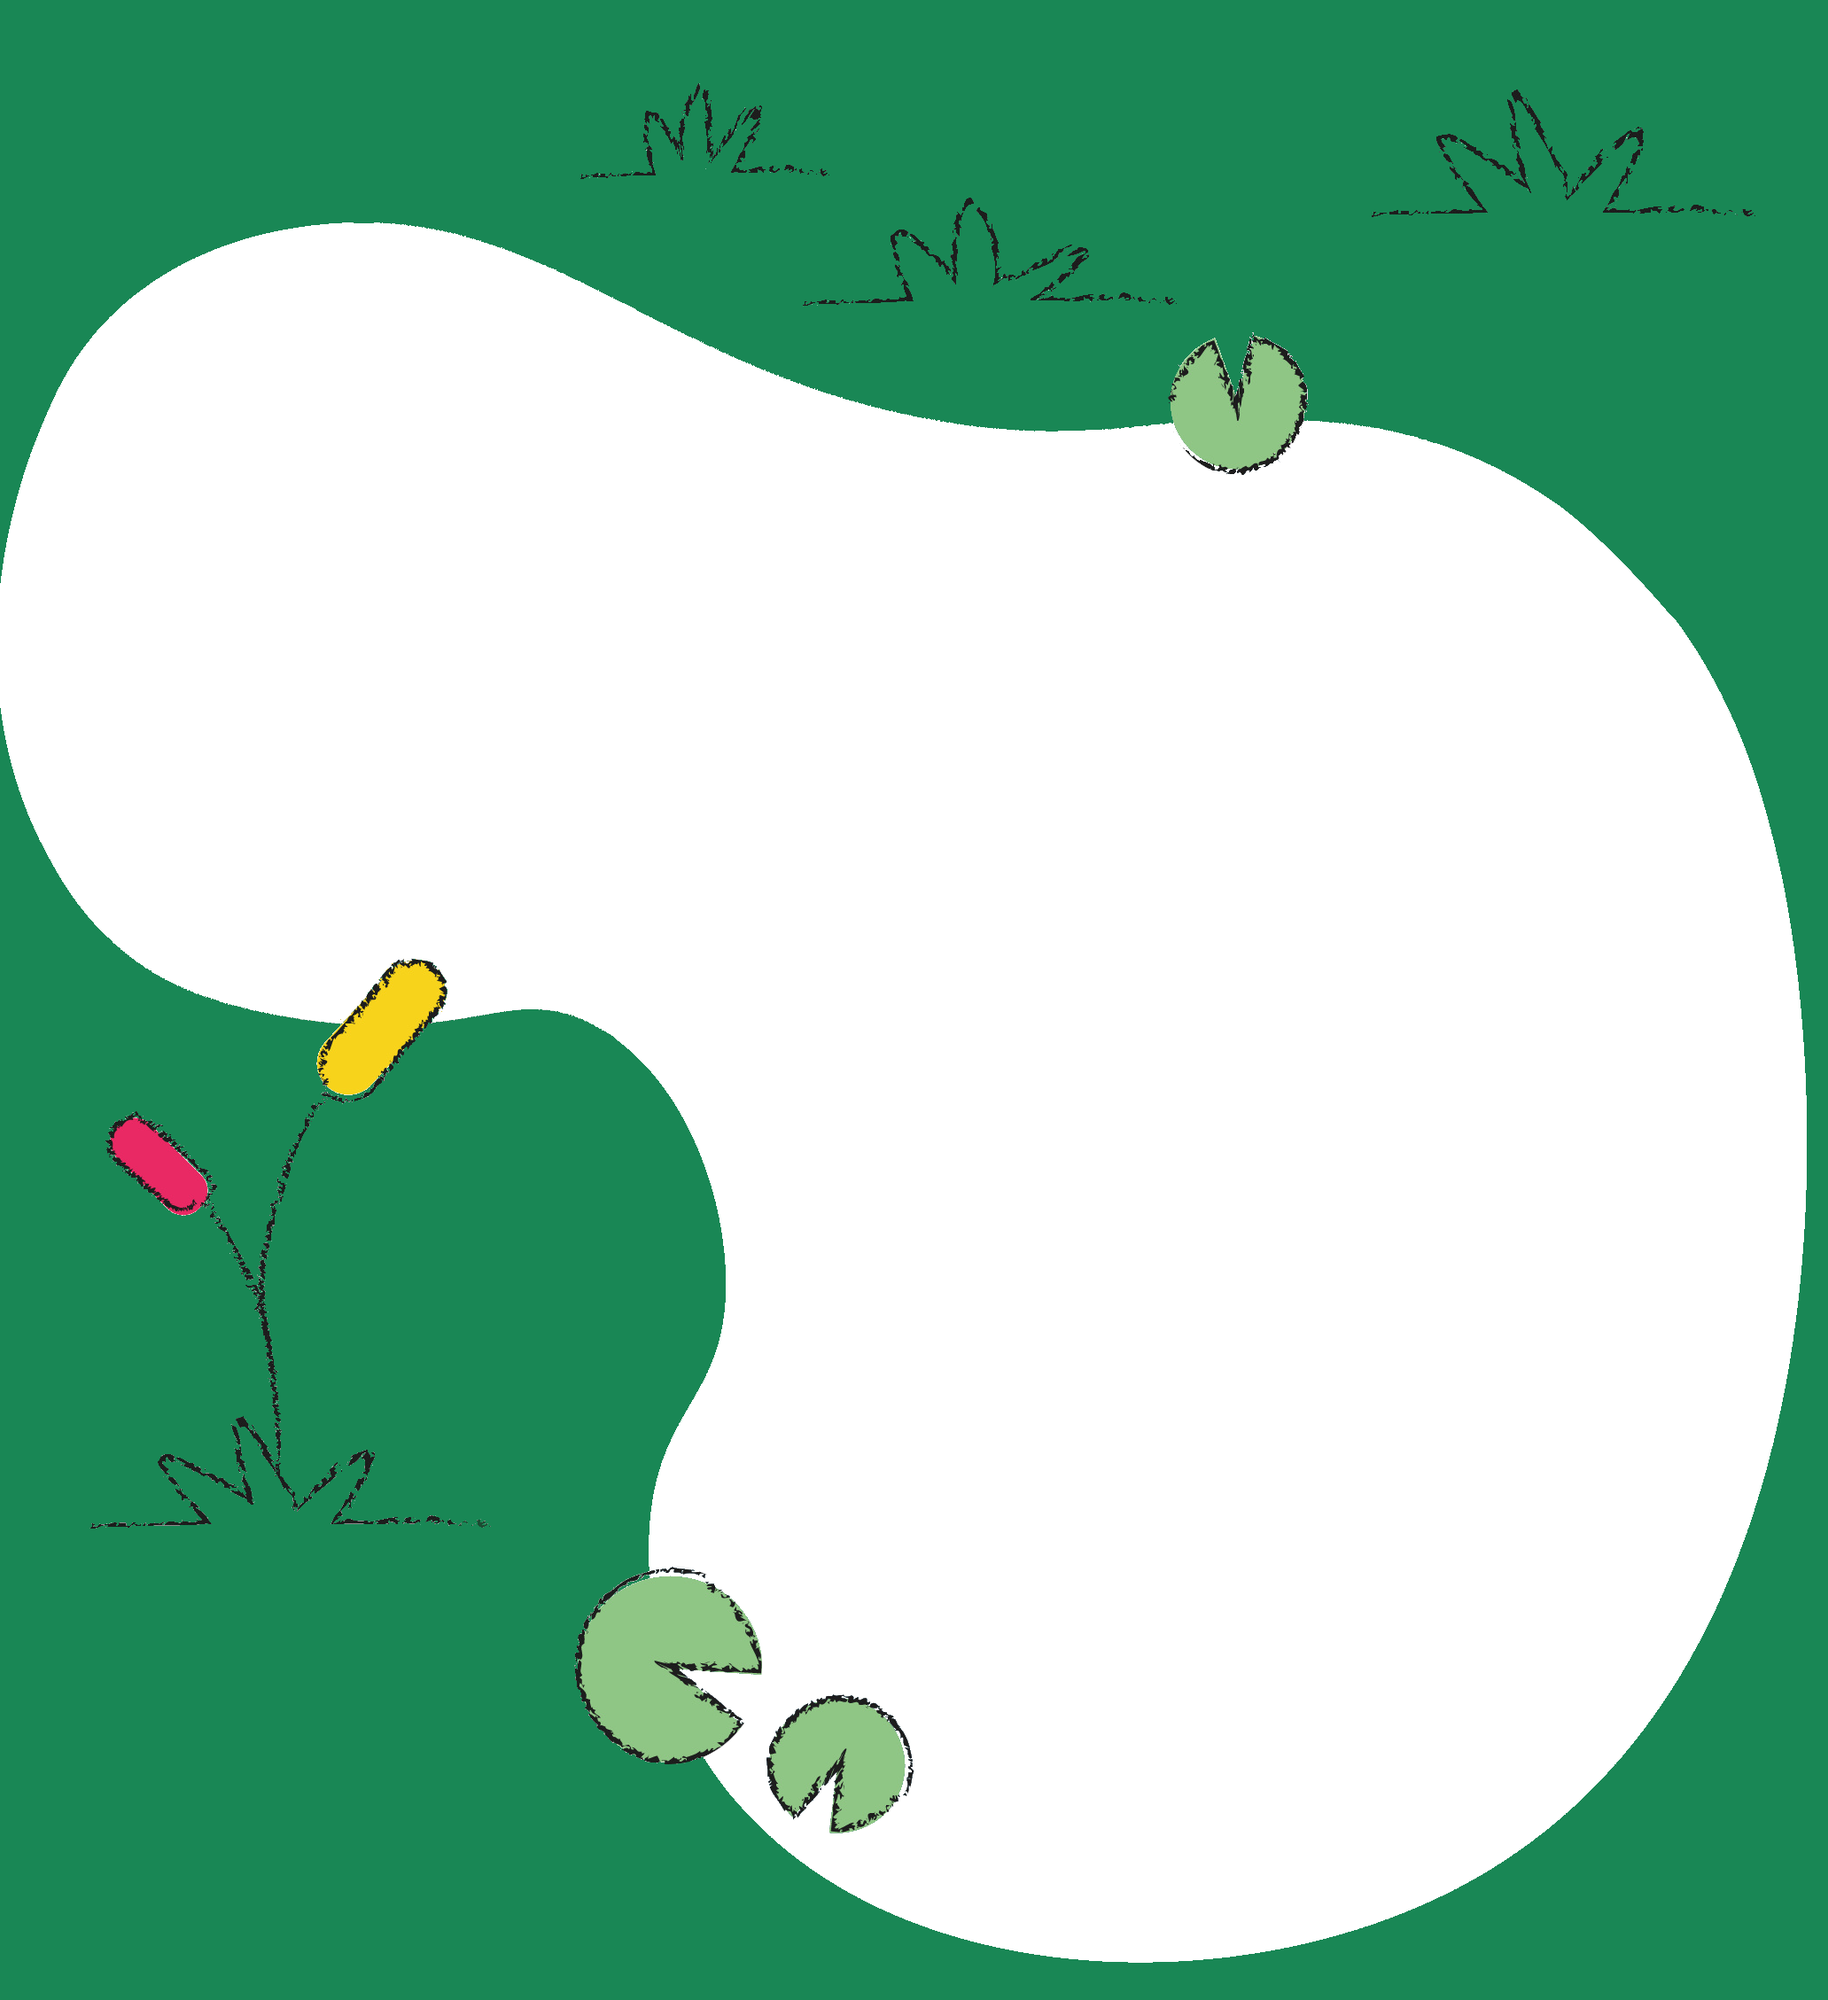
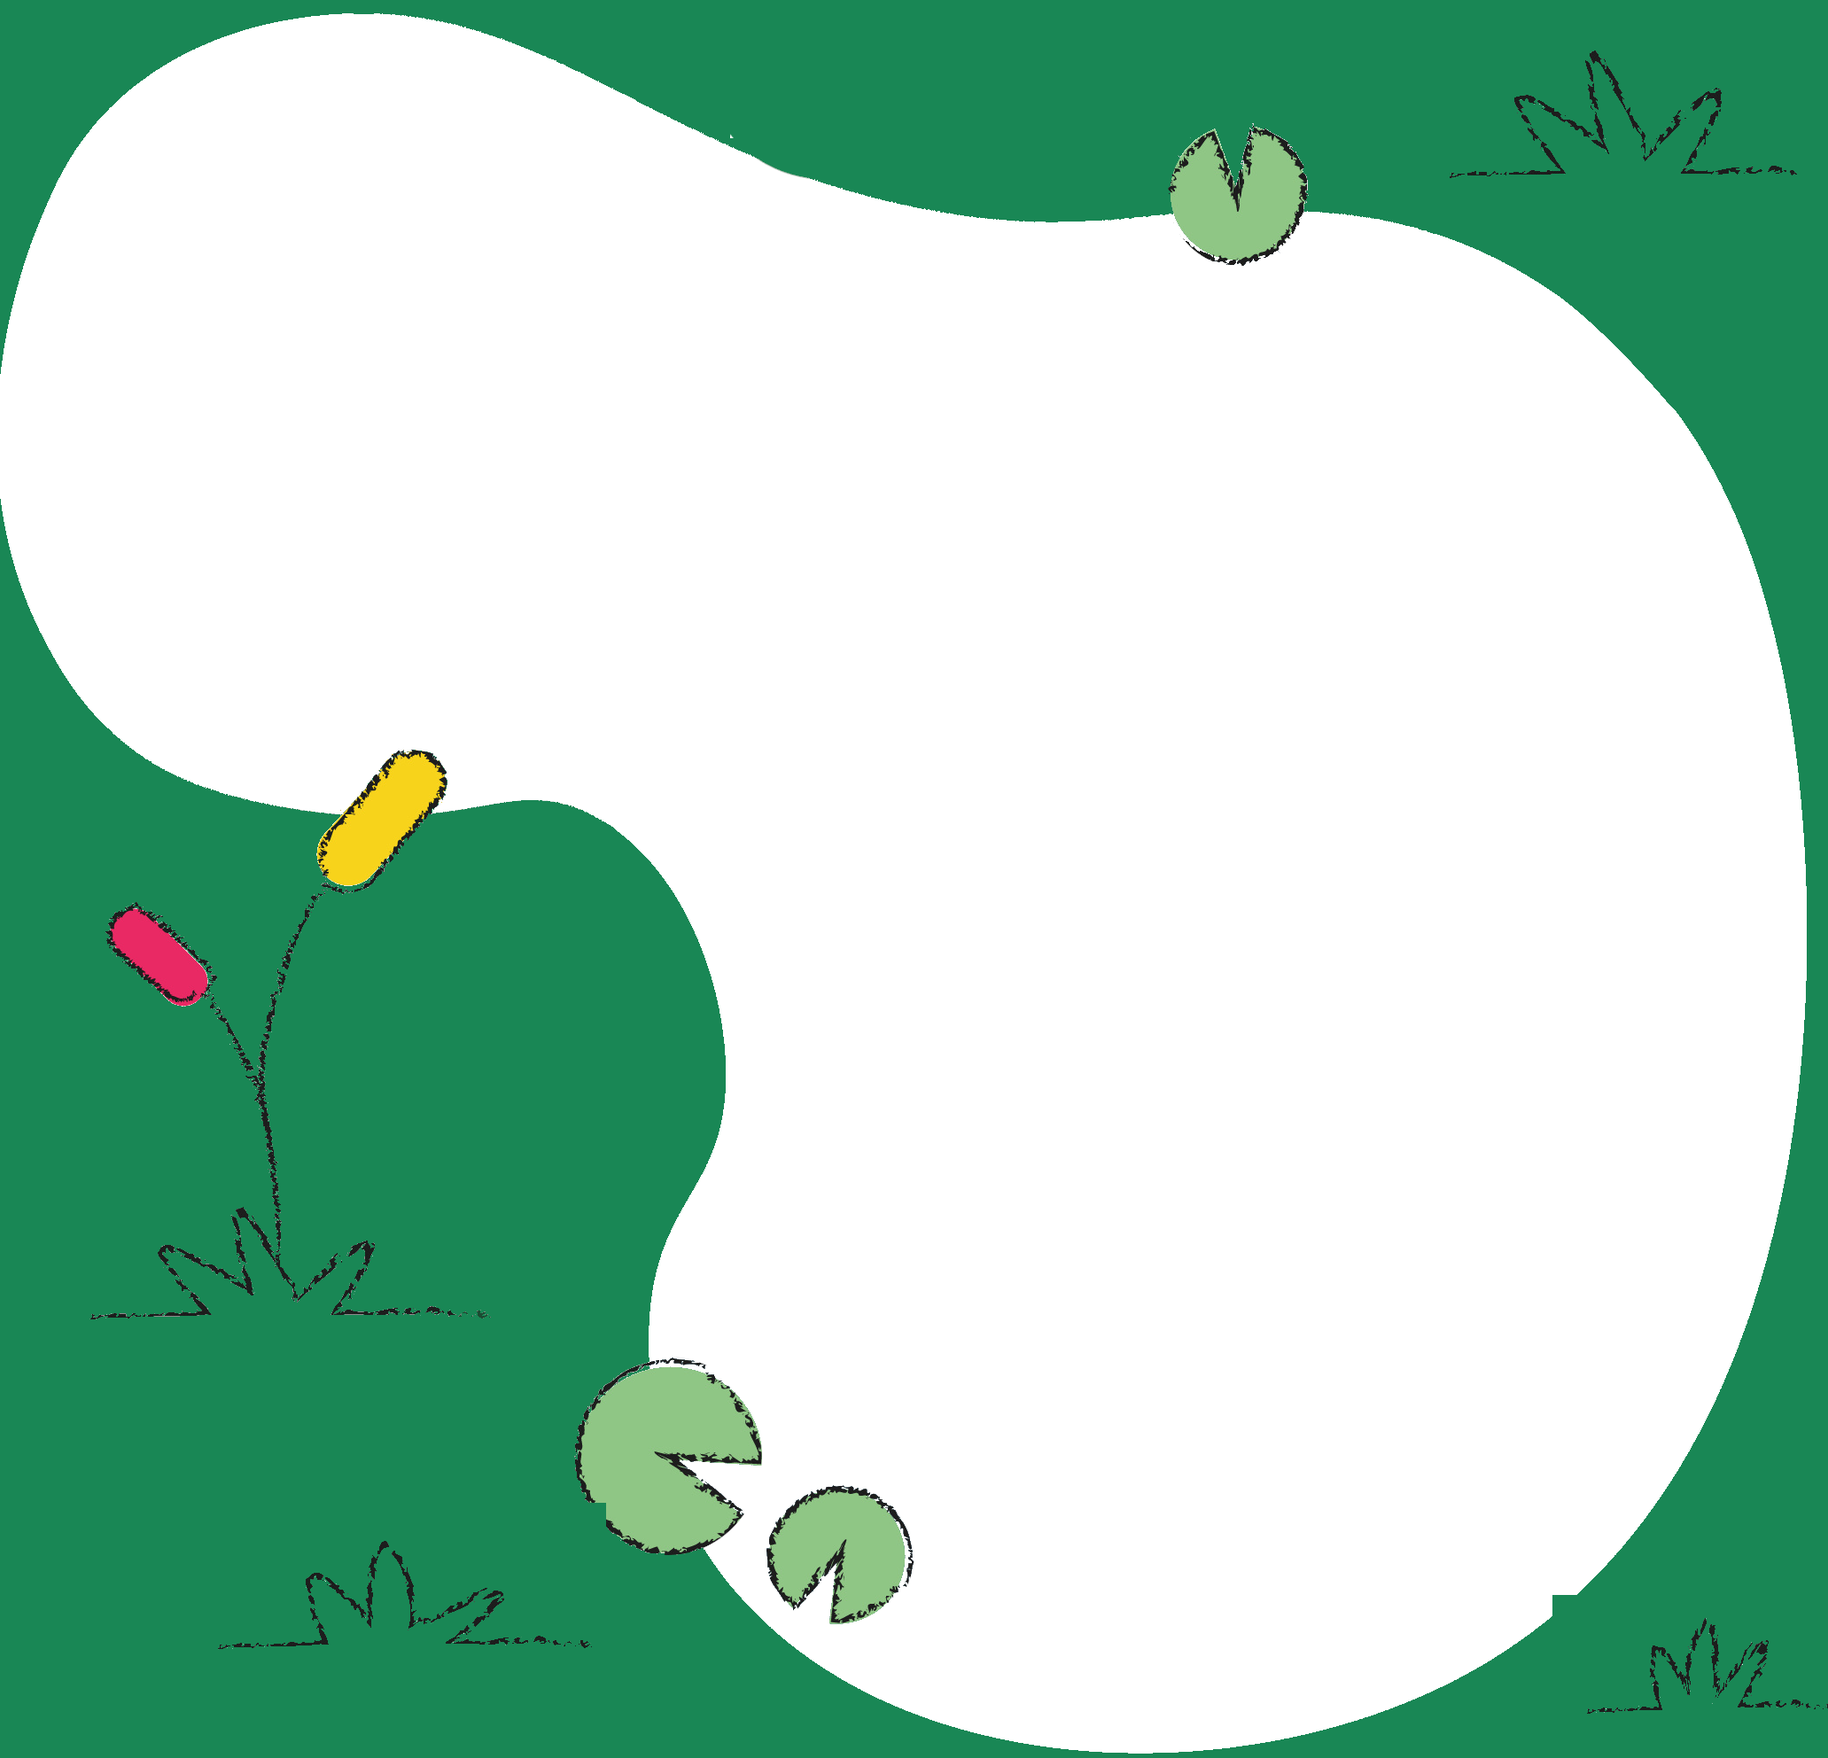
Ajustes

diff --git a/src/blocks/sobre-nos/style.css b/src/blocks/sobre-nos/style.css
@@ -1,124 +1,124 @@
-/**
- * Estilos do bloco Sobre Nós - Front-end (coluna única)
- */
-
-.bebelume-sobre-nos-block {
-	width: 100%;
-	padding: 0;
-	margin: 0;
-	position: relative;
+.sobre-nos-wrapper {
+  width: 100%;
+  display: flex;
+  justify-content: center;
+  padding: 40px 0;
 }
 
-/* BLOCO TODO COM O BLOB COMO FUNDO */
-.bebelume-sobre-nos-block .content-wrapper {
-	/* display: flex;
-	flex-direction: column; 
-	align-items: center;
-	justify-content: center; */
+/* CONTAINER DO BLOB */
+.sobre-nos-blob {
+  width: 100%;
+  max-width: 900px;
 
-	padding: 100px 40px;
-	min-height: 1100px;
+  background-image: url('../../../assets/images/blob-mobile.png');
+  background-repeat: no-repeat;
+  background-position: center top;
 
-	background-image: url('../../../assets/images/blob-mobile.png');
-	background-size: contain;
-	background-position: center top;
-	background-repeat: no-repeat;
+  aspect-ratio: 3 / 4.2;
+
+  display: flex;
+  justify-content: center;
+  align-items: flex-start; /* conteúdo no topo */
+  padding-top: 13%;
 }
 
-/* TÍTULO */
-.bebelume-sobre-nos-block .title-section {
-	display: flex;
-	justify-content: center;
-	align-items: center;
-	padding: 3em 0;
-	margin-bottom: 40px;
+/* CONTENT */
+.sobre-nos-content {
+  width: 80%;
+  max-width: 600px;
+  text-align: center;
+  color: #6b9b9e; /* <<<<<<<<<< NOVA COR DE TEXTO */
 }
 
-.bebelume-sobre-nos-block .sobre-nos-title {
-	font-size: 4rem;
-	font-weight: 300;
-	line-height: 1.1;
-	color: #6B9B9E;
-	margin: 0;
-	letter-spacing: 0.05em;
-	text-transform: uppercase;
-	text-align: center;
+.sobre-nos-content h1 {
+  font-size: 2.4rem;
+  margin-bottom: 20px;
 }
 
-/* TEXTO */
-.bebelume-sobre-nos-block .text-section {
-	display: flex;
-	flex-direction: column;
-	align-items: center;
-	color: #6B9B9E;
-	padding: 0 25em;
+.sobre-nos-content p {
+  font-size: 1.2rem;
+  line-height: 1.6;
 }
 
-.bebelume-sobre-nos-block .text-section p {
-	font-size: 1.3rem;
-	line-height: 1.8;
-	margin-bottom: 1.5rem;
-	text-align: center;
-}
-
-/* BOTÃO */
-.bebelume-sobre-nos-block .button-wrapper {
-	margin-top: 1.5rem;
-	text-align: center;
-}
-
-.bebelume-sobre-nos-block .sobre-nos-button {
-	display: inline-block;
-	padding: 12px 40px;
-	background: transparent;
-	color: #6B9B9E;
-	text-decoration: none;
-	font-weight: 600;
-	font-size: 0.9rem;
-	letter-spacing: 0.1em;
-	border: 2px solid #6B9B9E;
-	border-radius: 4px;
-	cursor: pointer;
-	transition: all 0.3s ease;
-	text-transform: uppercase;
-}
-
-.bebelume-sobre-nos-block .sobre-nos-button:hover {
-	background: #6B9B9E;
-	color: #ffffff;
-}
-
-/* MOBILE */
-@media (max-width: 768px) {
-
-	.bebelume-sobre-nos-block .content-wrapper {
-		padding: 120px 20px 60px;
-		min-height: 900px;
-
-		background-image: url('../../../assets/images/blob-mobile.png');
-		background-size: 90%;
-		background-position: center 20px;
+/* ====================== */
+/* 1) MOBILE PEQUENO      */
+/* ====================== */
+@media (min-width: 360px) {
+	.sobre-nos-blob {
+		background-size: 100% auto;
 	}
 
-	.bebelume-sobre-nos-block .sobre-nos-title {
-		font-size: 2.8rem;
-	}
-
-	.bebelume-sobre-nos-block .text-section p {
+	.sobre-nos-content p {
 		font-size: 1rem;
+		padding: 0 1.2em;
 	}
+
 }
 
-/* MOBILE PEQUENO */
-@media (max-width: 480px) {
-
-	.bebelume-sobre-nos-block .content-wrapper {
-		padding: 140px 15px 60px;
-		background-size: 100%;
-		background-position: center 10px;
+/* ====================== */
+/* 2) MOBILE MÉDIO        */
+/* ====================== */
+@media (min-width: 480px) {
+	.sobre-nos-blob {
+	background-size: 100% auto;
 	}
 
-	.bebelume-sobre-nos-block .sobre-nos-title {
-		font-size: 2.2rem;
+	/* iPhone 8, 11 Pro, Android padrão */
+}
+
+/* ====================== */
+/* 3) MOBILE GRANDE       */
+/* ====================== */
+@media (min-width: 576px) {
+	.sobre-nos-content p {
+		font-size: 1.2rem;
+		padding: 0 2em;
 	}
+	.sobre-nos-blob {
+  background-size: 100% auto;
+}
+
+}
+
+/* ====================== */
+/* 4) TABLET VERTICAL     */
+/* ====================== */
+@media (min-width: 768px) {
+	.sobre-nos-content p {
+		font-size: 1.5rem;
+		padding: 0 3em;
+	}
+	.sobre-nos-blob {
+  background-size: 100% auto;
+}
+
+}
+
+/* ====================== */
+/* 5) TABLET HORIZONTAL   */
+/* ====================== */
+@media (min-width: 992px) {
+    /* iPad horizontal, Galaxy Tab */
+	.sobre-nos-content p {
+		font-size: 1.5rem;
+		padding: 0 3em;
+	}
+	.sobre-nos-blob {
+  background-size: 75% auto;
+}
+
+}
+
+/* ====================== */
+/* 6) DESKTOP MÉDIO       */
+/* ====================== */
+@media (min-width: 1200px) {
+    /* Laptops 13–15” */
+}
+
+/* ====================== */
+/* 7) DESKTOP GRANDE      */
+/* ====================== */
+@media (min-width: 1400px) {
+    /* Monitores 1080p */
 }
